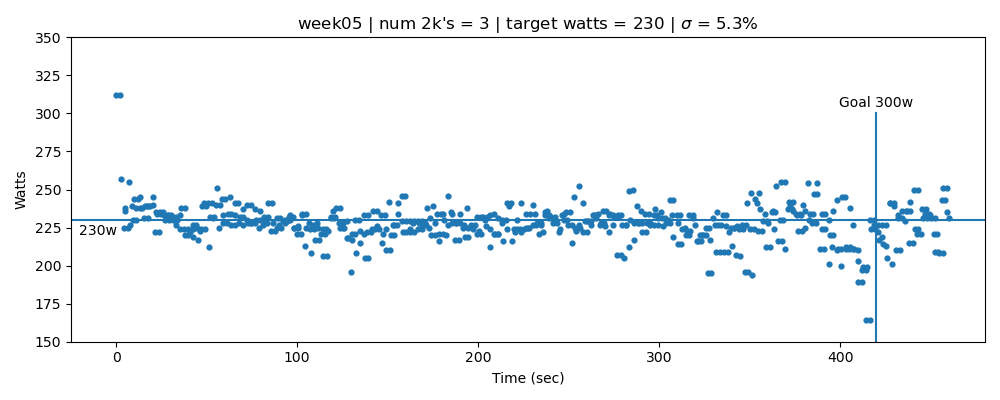
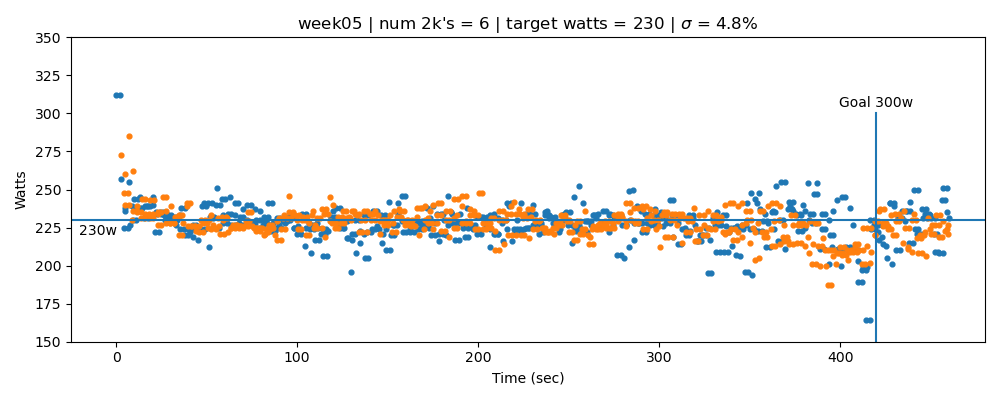
updated data

diff --git a/README.md b/README.md
@@ -14,12 +14,13 @@ Not sure what the CRASH-B target is yet. (300/265)x313x0.95 ~ 340 watts? This wo
 
 #### Summary
 
-31 sessions, 93x2k
+32 sessions, 96x2k
 
-##### Week 5: 230 Watts (3x2k)
+##### Week 5: 230 Watts (6x2k)
 
 | Date | Watts |
 | ---- | ----- |
+| 2021-11-20 | 230/230/230 |
 | 2021-11-18 | 230/230/230 |
 
 ![plot](plot_week05.png)
